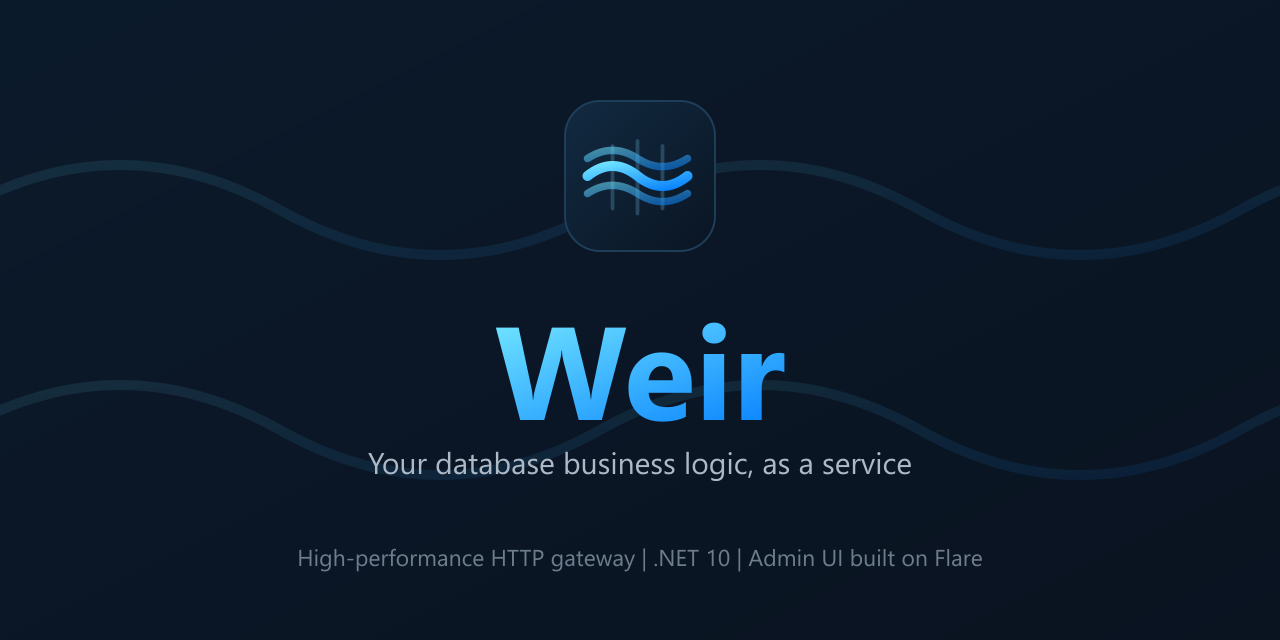
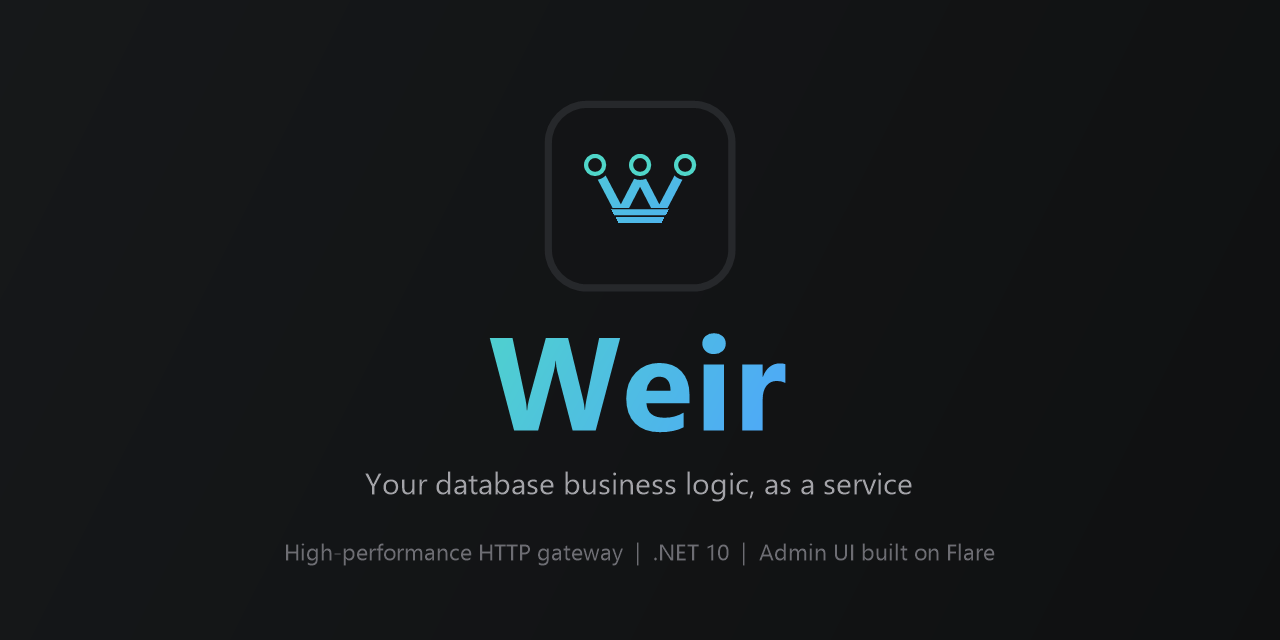
docs: Flare-style README language switch and new-mark brand assets
Switch the README language selector to Flare's style (globe, native language names, current language bolded and the other linked) in README.md and README.ru.md. Regenerate the standalone logo (assets/logo.svg) and the GitHub social-preview image (assets/social-preview.svg and .png) from the new Weir mark in the Command Center palette, replacing the old water-weir art, and note it in the changelog.

diff --git a/CHANGELOG.md b/CHANGELOG.md
@@ -80,10 +80,11 @@ All notable changes to this project are documented here. The format is based on
   top) flow down through the W and merge onto a gateway rail (the stacked bars at the bottom), in the
   Command Center palette (cyan `#4fd6c9` to accent `#4ea1ff` on the dark `#131416` surface), replacing
   the previous water-weir art and its unrelated blue palette. The favicon (`favicon.svg`) is the source
-  of truth; the installed-app icons (192 / 512 / maskable / apple-touch) and the README banner were
-  regenerated to match it, and the app bar and login card now render the same mark as an inline SVG
-  (`WeirMark`) sized for on-surface display, replacing the borrowed Material `hub` glyph. The manifest
-  and `theme-color` stay aligned to the app background.
+  of truth; the installed-app icons (192 / 512 / maskable / apple-touch), the README banner, the brand
+  logo (`assets/logo.svg`) and the GitHub social-preview image (`assets/social-preview.svg` / `.png`)
+  were all regenerated to match it, and the app bar and login card now render the same mark as an inline
+  SVG (`WeirMark`) sized for on-surface display, replacing the borrowed Material `hub` glyph. The
+  manifest and `theme-color` stay aligned to the app background.
 - Overlay drawers (Edit endpoint, the test console, the request-log detail) now inset their content
   horizontally to match the header, like a FluentUI2 / Visual Studio 2026 panel. Flare's default left
   the drawer content edge-to-edge (`padding: spacing-4 0`), so fields ran into the panel edge.
@@ -148,6 +149,10 @@ All notable changes to this project are documented here. The format is based on
   section (pull `ghcr.io/jrfrigat/weir` or add the library packages), the Deployment doc documents the
   published GHCR image, and CONTRIBUTING documents the tag-driven release pipeline and exactly what ships
   to NuGet versus the container image. All bilingual (English and Russian) where applicable.
+- The release workflow now publishes NuGet packages via **Trusted Publishing** (OIDC), exchanging a
+  GitHub token for a short-lived NuGet key through `NuGet/login` instead of storing a long-lived
+  `NUGET_API_KEY` secret (it reads the account name from a `NUGET_USER` repository variable). It also
+  creates the GitHub Release from the tag (auto-generated notes plus the packed `.nupkg` files).
 - Data-plane request log. Every call is recorded off the hot path (route, method, object, connection,
   timing, database time, rows, cache hit, status and caller), viewable on a new admin **Logs** screen
   with keyset paging and slow-only / errors-only filters. A call is flagged **slow** when it exceeds its

diff --git a/README.md b/README.md
@@ -2,7 +2,7 @@
   <img src="assets/banner.svg" alt="Weir - high-performance HTTP gateway; your database business logic, as a service" width="760">
 </p>
 
-<p align="center">English | <a href="README.ru.md">Russian / Russkiy</a></p>
+<p align="center">🌐 <b>English</b> · <a href="README.ru.md">Русский</a></p>
 
 <p align="center">
   <a href="https://github.com/jrfrigat/weir/actions/workflows/ci.yml"><img src="https://github.com/jrfrigat/weir/actions/workflows/ci.yml/badge.svg" alt="CI"></a>

diff --git a/README.ru.md b/README.ru.md
@@ -2,7 +2,7 @@
   <img src="assets/banner.svg" alt="Weir - высокопроизводительный HTTP-шлюз; бизнес-логика базы данных как сервис" width="760">
 </p>
 
-<p align="center"><a href="README.md">English</a> | Russkiy</p>
+<p align="center">🌐 <a href="README.md">English</a> · <b>Русский</b></p>
 
 <p align="center">
   <a href="https://github.com/jrfrigat/weir/actions/workflows/ci.yml"><img src="https://github.com/jrfrigat/weir/actions/workflows/ci.yml/badge.svg" alt="CI"></a>